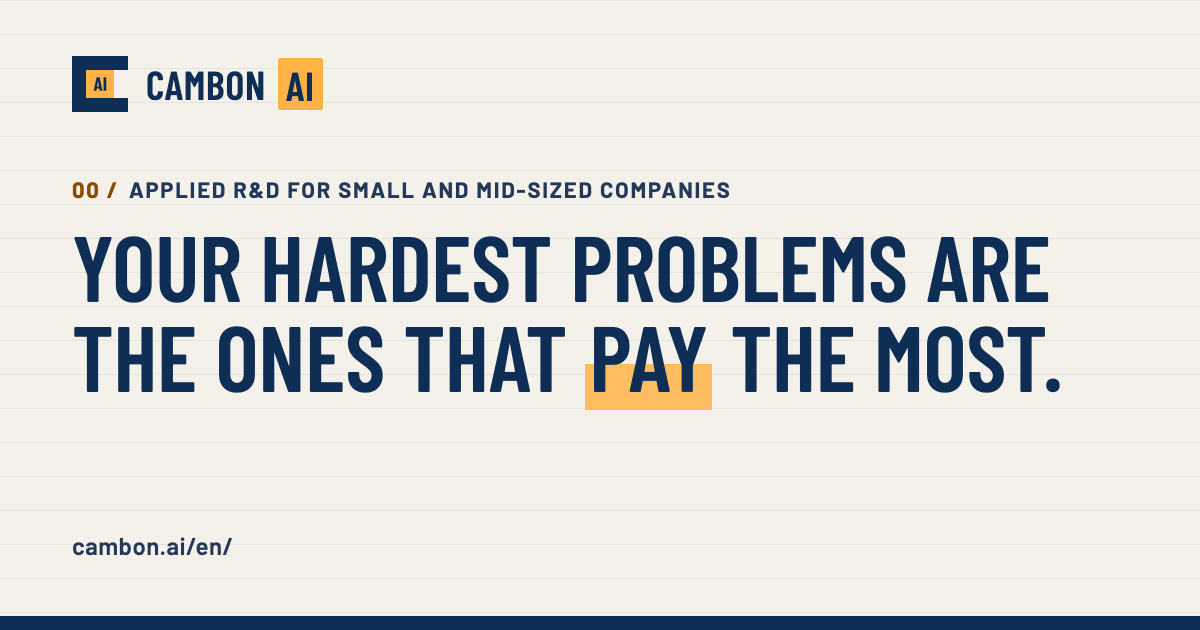
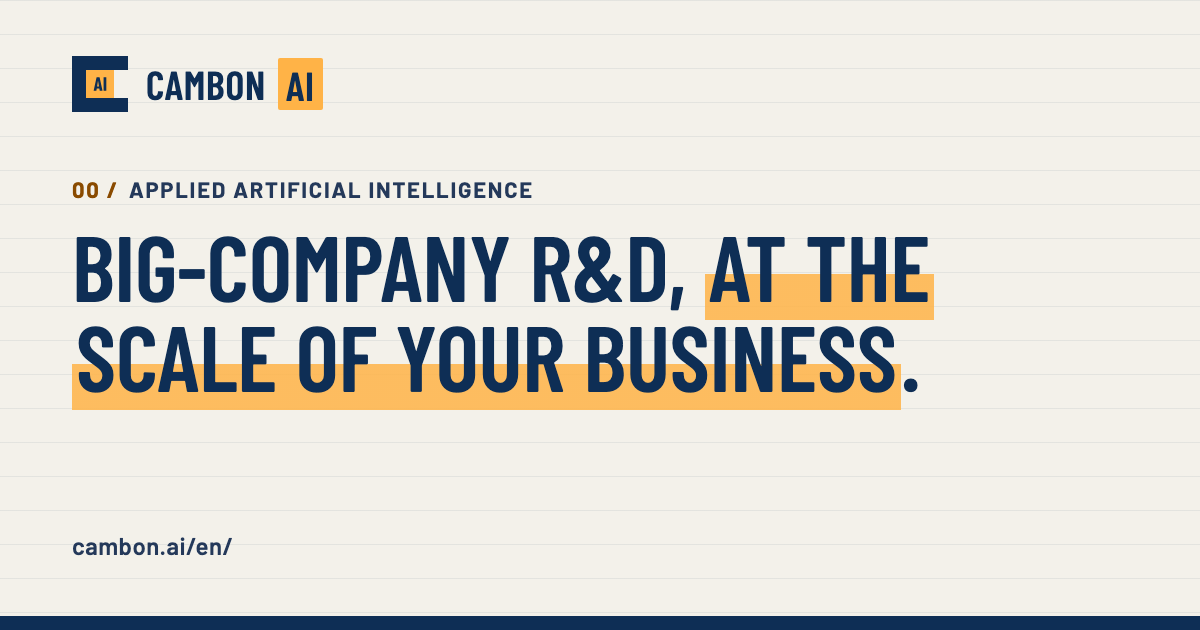
Nouvelle accroche : « La R&D d'un grand groupe, à l'échelle de votre entreprise » (FR/EN), title, meta et images de partage

Changed region(s): [[0.0617, 0.3619, 0.8942, 0.6635], [0.185, 0.2714, 0.6167, 0.3317]]

diff --git a/src/i18n/fr.ts b/src/i18n/fr.ts
@@ -1,12 +1,12 @@
 // Textes du site en français (textes validés : ne pas reformuler).
-// Pour surligner un mot en ambre, entourez-le de == (ex. : ==rapportent==).
+// Pour surligner un mot en ambre, entourez-le de == (ex. : ==à l'échelle de votre entreprise==).
 // Un repère entre crochets éventuel est remplacé via src/config.ts.
 
 export const fr = {
   meta: {
-    homeTitle: 'Cambon AI · R&D appliquée pour PME et ETI',
+    homeTitle: "Cambon AI · La R&D d'un grand groupe, à votre échelle",
     homeDescription:
-      "Docteur en IA et entrepreneur, je m'attaque aux problèmes difficiles des PME et ETI : optimisation, prévision, ciblage, aide à la décision.",
+      "Optimiser, prévoir, cibler, robotiser : la R&D des grands groupes, accessible aux PME et ETI. Docteur en IA et entrepreneur, ROI chiffré dès le départ.",
     projectsTitle: 'Projets · Cambon AI, R&D appliquée',
     projectsDescription:
       "Appels d'offres, biotech, robotique, économie de la presse, logiciels SaaS : six projets, du problème formalisé au résultat mesuré.",
@@ -17,7 +17,7 @@ export const fr = {
     legalDescription:
       'Mentions légales du site cambon.ai : éditeur CAMBON AI (SASU, Paris), immatriculation, directeur de la publication et hébergeur.',
     notFoundTitle: 'Page introuvable · Cambon AI',
-    ogImageAlt: 'Cambon AI : Vos problèmes difficiles sont ceux qui rapportent le plus.',
+    ogImageAlt: "Cambon AI : La R&D d'un grand groupe, à l'échelle de votre entreprise.",
   },
   nav: {
     approach: 'Approche',
@@ -31,10 +31,11 @@ export const fr = {
 
   // ---------- Page d'accueil ----------
   hero: {
-    eyebrow: 'Cambon AI · R&D appliquée pour PME et ETI',
-    title: 'Vos problèmes difficiles sont ceux qui ==rapportent== le plus.',
+    eyebrow: 'Cambon AI · Intelligence artificielle appliquée',
+    title: "La R&D d'un grand groupe, ==à l'échelle de votre entreprise==.",
+    subtitleLead: 'Vos problèmes difficiles sont ceux qui rapportent le plus.',
     subtitle:
-      "Un chercheur pour poser le problème, un entrepreneur pour en tirer de la valeur. Docteur en IA et entrepreneur depuis plus de dix ans, je m'attaque à ce qui pèse sur votre marge : optimisation, prévision, ciblage, aide à la décision. Du problème formalisé à la solution en production.",
+      "Optimiser, prévoir, cibler, robotiser : ils étaient réservés aux grands groupes. Docteur en IA, entrepreneur, vingt-cinq ans dans le domaine : je les rends accessibles aux PME et aux ETI, avec un retour sur investissement chiffré dès le départ.",
     ctaPrimary: 'Parlons de votre problème',
     ctaSecondary: 'Voir les projets',
     factsLabel: "Ce que j'apporte",

diff --git a/src/i18n/en.ts b/src/i18n/en.ts
@@ -1,12 +1,12 @@
-// English texts. Wrap a word in == to highlight it in amber (e.g. ==pay==).
+// English texts. Wrap a word in == to highlight it in amber (e.g. ==at the scale of your business==).
 // Any bracketed marker is replaced via src/config.ts.
 import type { Texts } from './fr';
 
 export const en: Texts = {
   meta: {
-    homeTitle: 'Cambon AI · Applied R&D for small and mid-sized companies',
+    homeTitle: 'Cambon AI · Big-company R&D, at the scale of your business',
     homeDescription:
-      'PhD in AI and entrepreneur, I solve the hard problems of small and mid-sized companies: optimization, forecasting, targeting, decision support.',
+      'Optimizing, forecasting, targeting, robotizing: big-company R&D, made accessible to small and mid-sized companies. PhD in AI, ROI quantified from day one.',
     projectsTitle: 'Projects · Cambon AI, applied R&D',
     projectsDescription:
       'Tender responses, biotech, robotics, press economics, SaaS products: six projects, from a well-framed problem to a measured result.',
@@ -17,7 +17,7 @@ export const en: Texts = {
     legalDescription:
       'Legal notice for the cambon.ai website: publisher CAMBON AI (SASU, Paris), registration, publication director and hosting provider.',
     notFoundTitle: 'Page not found · Cambon AI',
-    ogImageAlt: 'Cambon AI: Your hardest problems are the ones that pay the most.',
+    ogImageAlt: 'Cambon AI: Big-company R&D, at the scale of your business.',
   },
   nav: {
     approach: 'Approach',
@@ -31,10 +31,11 @@ export const en: Texts = {
 
   // ---------- Home page ----------
   hero: {
-    eyebrow: 'Cambon AI · Applied R&D for small and mid-sized companies',
-    title: 'Your hardest problems are the ones that ==pay== the most.',
+    eyebrow: 'Cambon AI · Applied artificial intelligence',
+    title: 'Big-company R&D, ==at the scale of your business==.',
+    subtitleLead: 'Your hardest problems are the ones that pay the most.',
     subtitle:
-      'A researcher to frame the problem, an entrepreneur to turn it into value. With a PhD in AI and more than ten years as an entrepreneur, I tackle what weighs on your margins: optimization, forecasting, targeting, decision support. From a well-framed problem to a solution running in production.',
+      'Optimizing, forecasting, targeting, robotizing: they used to be reserved for large corporations. A PhD in AI, an entrepreneur, twenty-five years in the field: I make them accessible to small and mid-sized companies, with a quantified return on investment from day one.',
     ctaPrimary: "Let's talk about your problem",
     ctaSecondary: 'See the projects',
     factsLabel: "What I bring",

diff --git a/src/i18n/index.ts b/src/i18n/index.ts
@@ -51,7 +51,9 @@ function typoFr(text: string): string {
     .replace(/(\d) (?=\d{3}\b)/g, `$1${NBSP}`)
     .replace(/(\d) (?=[%€\p{L}])/gu, `$1${NBSP}`)
     .replace(/≈ /g, `≈${NBSP}`)
-    .replace(/ →/g, `${NBSP}→`);
+    .replace(/ →/g, `${NBSP}→`)
+    // « à » ne reste jamais seul en fin de ligne
+    .replace(/(^|[\s=])([àÀ]) /g, `$1$2${NBSP}`);
 }
 
 /** Remplace les placeholders et applique la typographie. Renvoie du texte simple. */

diff --git a/README.md b/README.md
@@ -17,7 +17,7 @@ Ouvrez le fichier, trouvez la phrase et modifiez-la entre les guillemets. Les de
 
 Deux règles :
 
-- **Surligner un mot en ambre** : entourez-le de `==`. Exemple : `ceux qui ==rapportent== le plus`.
+- **Surligner un mot en ambre** : entourez-le de `==`. Exemple : `==à l'échelle de votre entreprise==`.
 - **Apostrophes** : si la phrase est entre guillemets doubles `"…"`, vous pouvez écrire `l'accueil` librement. Si elle est entre guillemets simples `'…'`, utilisez des guillemets doubles à la place dès que la phrase contient une apostrophe.
 
 Les mentions légales sont aussi dans `fr.ts` et `en.ts`, rubrique `legal`.
